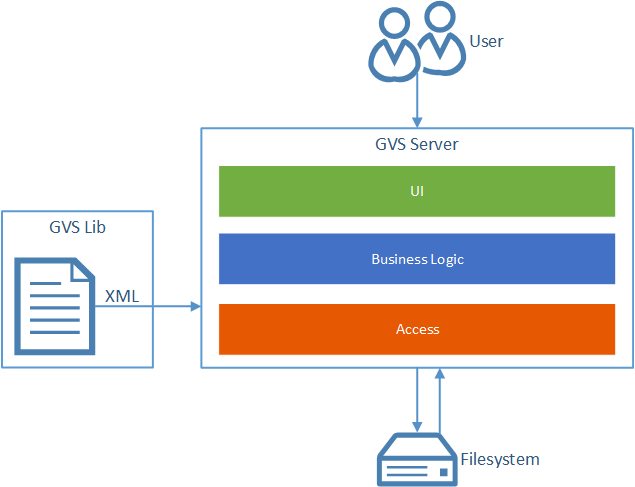
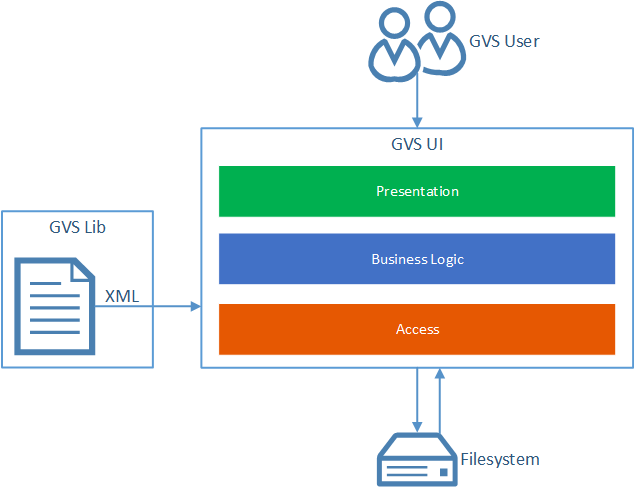
128: renamed server with GVS UI and client with GVS Lib, updated layer colors

Changed region(s): [[0.3291, 0.3388, 0.9874, 0.462], [0.5685, 0.2772, 0.7181, 0.308], [0.7181, 0.0616, 0.8378, 0.0924]]

diff --git a/GVS_Documentation.tex b/GVS_Documentation.tex
@@ -261,8 +261,8 @@ eprint=false
 	Die Anforderungen wurden massgeblich aus der offiziellen Aufgabenstellung entnommen. (siehe Anhang \ref{aufgabenstellung})
 	
 	\begin{enumerate}
-		\item Serverseitig muss das UI Framework Swing durch den offiziellen Nachfolger \gls{javafx} ersetzt werden.
-		\item Clientseitig muss die Java und .NET Library um Generics erweitert werden. 
+		\item Im der \gls{gvsui} Komponente muss das Framework Swing durch den offiziellen Nachfolger \gls{javafx} ersetzt werden.
+		\item In der \gls{gvslib} Komponenteeil muss die Java und .NET Library um Generics erweitert werden. 
 		\item Punktuell müssen Verbesserungen vorgenommen werden.
 	\end{enumerate}
 
@@ -290,15 +290,15 @@ eprint=false
 	\subsection{Aktoren} \label{ssec:actors}
 	Das System wird von zwei Aktoren beeinflusst
 	
-	\subsubsection{User} \label{sssec:actor-user}
-	Der User interagiert mit dem GVS Server über das User Interface. Er möchte die aktuelle Session auf das Filesystem speichern oder eine Session von dort laden. Wenn ein Graph visualisiert ist, kann er die Koordinaten der Vertices neu berechnen lassen.
+	\subsubsection{GVS User} \label{sssec:actor-user}
+	Der GVS User interagiert mit dem \gls{gvsui} über das User Interface. Er möchte die aktuelle Session auf das Filesystem speichern oder eine Session von dort laden. Wenn ein Graph visualisiert ist, kann er die Koordinaten der Vertices neu berechnen lassen.
 	
-	\subsubsection{Client Library} \label{sssec:actor-lib}
-	Die Client Library wird in das Software Projekt des GVS User eingebunden. Sie sendet in \gls{xml} beschriebene Datenstrukturen über eine Socket Verbindung an den GVS Server.
+	\subsubsection{GVS Lib} \label{sssec:actor-lib}
+	Die \gls{gvslib} Komponente wird in das Software Projekt des GVS User eingebunden. Sie sendet in \gls{xml} beschriebene Datenstrukturen über eine Socket Verbindung an das \gls{gvsui}.
 	
 	\subsection{Systemübersicht}
-	Der Aktor \textit{User} (\ref{sssec:actor-user}) interagiert mit dem GVS Server über das User Interface. Er kann die aktuelle Visualisierungs-Session per Knopfdruck auf das Filesystem speichern oder eine bestehende Session von dort laden.
-	Über den Access Layer verbindet sich der Aktor \textit{Client Library} (\ref{sssec:actor-lib}) mit dem GVS Server. Die Datenstrukturen werden als \gls{xml} an den Server gesendet und dort auf dem User Interface visualisiert.
+	Der Aktor \textit{GVS User} (\ref{sssec:actor-user}) interagiert mit dem \gls{gvsui} über das User Interface. Er kann die aktuelle Visualisierungs-Session per Knopfdruck auf das Filesystem speichern oder eine bestehende Session von dort laden.
+	Über den Access Layer verbindet sich der Aktor \textit{GVS Lib} (\ref{sssec:actor-lib}) mit dem \gls{gvsui}. Die Datenstrukturen werden als \gls{xml} an das \gls{gvsui} gesendet und dort auf dem User Interface visualisiert.
 	
 	\begin{figure}[h!]
 		\centering
@@ -315,7 +315,7 @@ eprint=false
 	Zum besseren Verständnis von GVS 1.0 hat das Projektteam die wichtigsten Systemabläufe analysiert und als Sequenzdiagramme aufgezeichnet.
 	
 	\subsubsection{Verbindungsaufbau}
-	Dieses Sequenzdiagramm zeigt den Verbindungsaufbau über den \textit{SocketServer} beim starten der Applikation. Der Start einer \textit{SeverConnectionXML} führt zu einem Locking mit Hilfe des \textit{ConnectionMonitors}. Dieses Locking verhindert, dass mehr als ein Client gleichzeitig mit einem Server kommuniziert. Nach dem Empfangen der Daten aus dem Socket, erstellt der \textit{ModelBuilder} einen Graphen oder Tree als Domain-Objekt. Dieser Ablauf ist auf dem Sequenzdiagramm \textbf{ModelBuilder} (siehe \ref{sssec:modelbuilder}) ersichtlich.
+	Dieses Sequenzdiagramm zeigt den Verbindungsaufbau über den \textit{SocketServer} beim starten der Applikation. Der Start einer \textit{SeverConnectionXML} führt zu einem Locking mit Hilfe des \textit{ConnectionMonitors}. Dieses Locking verhindert, dass mehr als eine \gls{gvslib} gleichzeitig mit einem \gls{gvsui} kommuniziert. Nach dem Empfangen der Daten aus dem Socket, erstellt der \textit{ModelBuilder} einen Graphen oder Tree als Domain-Objekt. Dieser Ablauf ist auf dem Sequenzdiagramm \textbf{ModelBuilder} (siehe \ref{sssec:modelbuilder}) ersichtlich.
 	\begin{figure}[h!]
 		\centering
 		\includegraphics[width=\linewidth]{assets/images/verbindungsaufbau}
@@ -334,7 +334,7 @@ eprint=false
 
 	\subsubsection{ApplicationView: Load \& Save Session} \label{sssec:appView}
 	Wenn ein User eine Session lädt, wird das entsprechende \gls{xml} vom \textit{Persistor} geparsed. Dieser erstellt je nach Bedarf einen Vector aus Graphs oder Trees. Dieser Vector wird an den \textit{SessionController} übergeben. Der Ablauf innerhalb des \textit{SessionController}s ist im separaten Sequenzdiagramm \textbf{GraphSessionController} (siehe \ref{sssec:sessioncontroller}) dargestellt. \\
-	Nachdem die Session erstellt wurde, wird die \textit{ApplicationView} per Observer-Beziehung (siehe Glossar: \gls{observer}) notifiziert. Sie stellt darauf die neue Session im UI dar.\\
+	Nachdem die Session erstellt wurde, wird die \textit{ApplicationView} per Observer-Beziehung (siehe Glossar: \gls{observer}) notifiziert. Sie stellt darauf die neue Session im \gls{gvsui} dar.\\
 	Auffällig an der Klasse \textit{ApplicationView} ist, dass sie im Constructor einen \textit{Persistor} instanziert. Diese Instanz wird jedoch nicht direkt in der ApplicationView verwendet, sondern wird als Argument an den \textit{ApplicationController} geschickt, welcher dann mit dem Persistor Sessions speichert und lädt. In der Analyse des Projektteams ist unklar geblieben, wieso die Instanzierung des \textit{Persistor}s nicht direkt im \textit{ApplicationController} passiert.
 	\begin{figure}[h!]
 		\centering
@@ -361,7 +361,7 @@ eprint=false
 	Der GVS 1.0 weisst folgende Stärken auf:
 	
 	\subsubsection{Trennung Socket / Visualization}
-	Die angedachte Trennung zwischen Server und Visualisierung der Daten widerspiegelt sich klar im vorliegenden Code.
+	Die angedachte Trennung zwischen Socket Server und Visualisierung der Daten widerspiegelt sich klar im vorliegenden Code.
 	
 	\subsubsection{Layering}
 	Die meisten Klassen konnten bei der Analyse eindeutig einem Layer zugewiesen werden. Dies zeigt, dass die geplante Architektur mehrheitlich umgesetzt wurde.

diff --git a/glossar-terms.tex b/glossar-terms.tex
@@ -20,6 +20,21 @@
 	first={GVS (Graphs-Visualization-Service)}
 }
 
+\newglossaryentry{gvsui}
+{
+	name={GVS UI},
+	description={Graphs-Visualization-Service UI: Komponente die für die Visualisierung der Datenstrukturen verantwortlich ist. Enthält den Socket Server.},
+	first={GVS UI}
+}
+
+\newglossaryentry{gvslib}
+{
+	name={GVS Lib},
+	description={Graphs-Visualization-Service Lib: Komponente die beim Client in das Software Projekt eingebunden werden muss. Enthält den Socket Client.},
+	first={GVS Lib}
+}
+
+
 \newglossaryentry{hsr}
 {
 	name={HSR},
